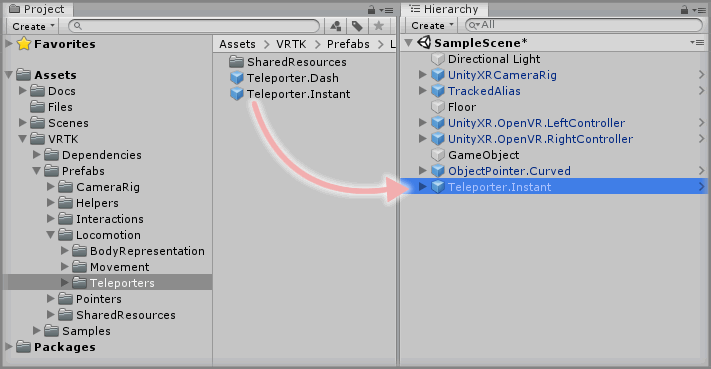
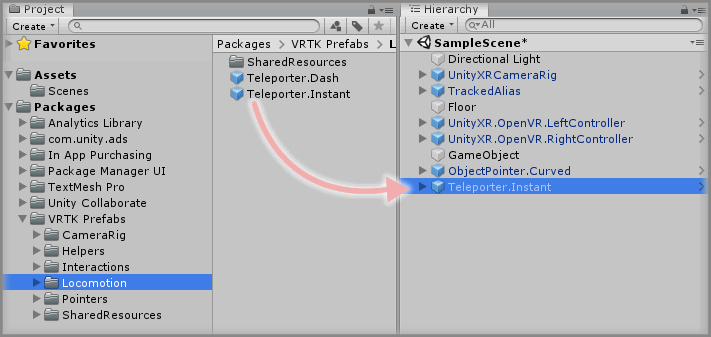
fix(HowToGuides): update adding a teleporter guide
Update the guide to show the steps for needing the new VRTK Prefabs
repository.

diff --git a/Documentation/HowToGuides/Locomotion/AddingATeleporter/README.md b/Documentation/HowToGuides/Locomotion/AddingATeleporter/README.md
@@ -32,7 +32,7 @@ There are two main types of teleporting:
 
 ### Step 1
 
-Expand the VRTK directory in the Unity Project window until the `VRTK -> Prefabs -> Locomotion -> Teleporters` directory is visible to show the two current teleport choices of `Teleporter.Dash` and `Teleporter.Instant`. Both of these options work in a similar way and provide the same public API into the underlying prefab. For this example, we'll use the `Teleporter.Instant` prefab. Drag and drop the `Teleporter.Instant` prefab into the Hierarchy window.
+Expand the VRTK Prefabs Package directory in the Unity Project window until the `Packages -> VRTK Prefabs -> Locomotion -> Teleporters` directory is visible to show the two current teleport choices of `Teleporter.Dash` and `Teleporter.Instant`. Both of these options work in a similar way and provide the same public API into the underlying prefab. For this example, we'll use the `Teleporter.Instant` prefab. Drag and drop the `Teleporter.Instant` prefab into the Hierarchy window.
 
 ![Drag Teleporter Instant To Hierarchy](assets/images/DragTeleporterInstantToHierarchy.png)
 
